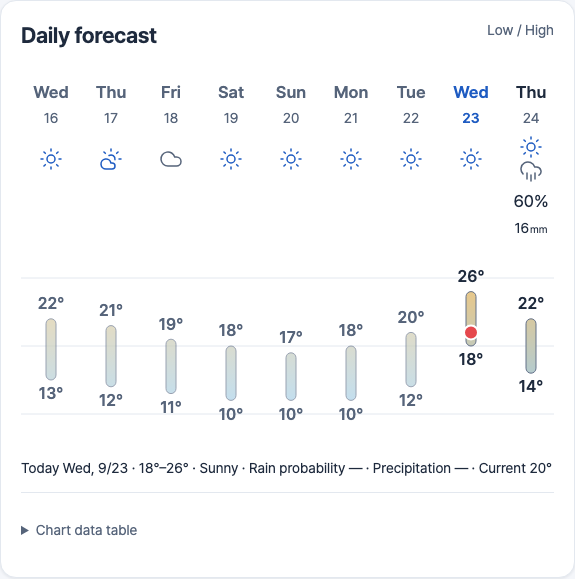
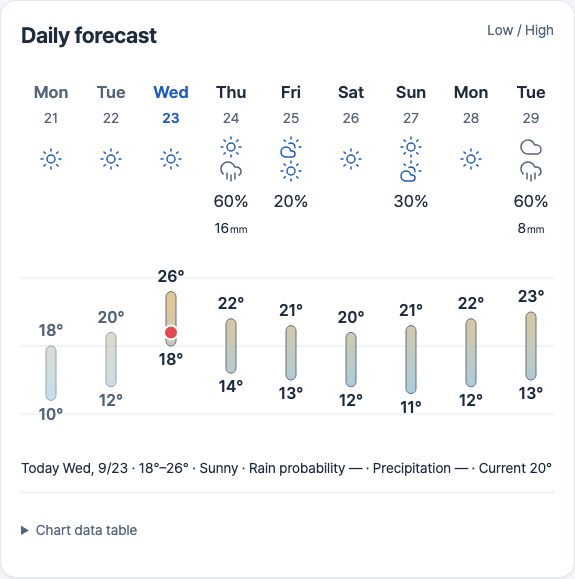
fix(web): open the daily chart with today third whenever the days do not fit
The native tablet rule (first day from a 640 px screen) assumes a
full-width chart. In the web card beside the sidebar it left today at
the right edge with the forecast off screen (768 px: 8 of 18 columns).
Today now opens third unless every day fits.

diff --git a/web/e2e/pwa-design.spec.ts b/web/e2e/pwa-design.spec.ts
@@ -207,18 +207,21 @@ test("daily chart keeps the native cells: empty probability, two-digit day, a 10
     page.locator(".daily-chart-panel tbody tr").first(),
   ).toContainText("—");
 });
-test("daily chart opens with today third below a 640 px screen and at the first day from 640 px (native)", async ({
+test("daily chart opens with today third whenever the days do not all fit, and at the first day when they do", async ({
   page,
 }) => {
   const raw = dailyFixture();
+  // Today (09-23) is the sixth of 16 days.
   raw.midData.dailyData = Array.from({ length: 16 }, (_, i) => ({
     ...raw.midData.dailyData[0],
     date: `2026${i < 13 ? "09" : "10"}${String(i < 13 ? 18 + i : i - 12).padStart(2, "0")}`,
   }));
   await page.route(API + "/weather/**", (r) => r.fulfill({ json: raw }));
-  for (const [width, today3rd] of [
-    [639, true],
-    [640, false],
+  for (const [width, fits] of [
+    [402, false],
+    [768, false],
+    [1024, false],
+    [1440, true],
   ] as const) {
     await page.setViewportSize({ width, height: 900 });
     await page.goto("/weather/seoul/daily");
@@ -226,19 +229,22 @@ test("daily chart opens with today third below a 640 px screen and at the first 
     await expect(daily.locator(".today-column")).toHaveCount(1);
     await page.evaluate(() => document.fonts.ready);
     const pos = await daily.evaluate((el) => {
+      const box = el.getBoundingClientRect();
       const cols = [...el.querySelectorAll(".chart-column")];
+      const today = cols.findIndex((c) => c.classList.contains("today-column"));
       return {
         scrollLeft: el.scrollLeft,
         overflow: el.scrollWidth > el.clientWidth + 1,
-        cell: cols[0].getBoundingClientRect().width,
-        today: cols.findIndex((c) => c.classList.contains("today-column")),
-        max: el.scrollWidth - el.clientWidth,
+        // 1-based position of today among the columns from the left edge.
+        todayPosition:
+          today -
+          cols.findIndex((c) => c.getBoundingClientRect().right > box.left + 1) +
+          1,
       };
     });
-    expect(pos.overflow).toBe(true);
-    const expected = today3rd ? Math.min(pos.max, (pos.today - 2) * pos.cell) : 0;
-    expect(today3rd ? expected : 1).toBeGreaterThan(0);
-    expect(Math.abs(pos.scrollLeft - expected)).toBeLessThan(2);
+    expect(pos.overflow).toBe(!fits);
+    if (fits) expect(pos.scrollLeft).toBe(0);
+    else expect(pos.todayPosition).toBe(3);
   }
 });
 test("chart route navigation scrolls and focuses on click, direct load and history", async ({

diff --git a/web/src/Charts.tsx b/web/src/Charts.tsx
@@ -31,8 +31,6 @@ import { dateText, hourText } from "./locale";
 import { t, useLanguage } from "./i18n";
 import { useApp } from "./context";
 
-const TABLET_WIDTH = 640;
-
 let measureCtx: CanvasRenderingContext2D | null | undefined;
 function maxTextWidth(labels: string[], font: string): number {
   if (measureCtx === undefined)
@@ -673,11 +671,11 @@ export function DailyChart({ weather: w }: { weather: Weather }) {
       el.scrollLeft = 0;
       anchorDate.current = { at: model.rows[0].point.at, offset: 0 };
     } else if (!userScrolled.current || anchorDate.current === null) {
-      // Native: today opens in the third column; screens 640 px and wider open at the start.
-      const target =
-        document.documentElement.clientWidth >= TABLET_WIDTH
-          ? 0
-          : model.startIndex * cell;
+      // The days do not all fit: today opens in the third column (the
+      // native phone rule), as far as the chart can scroll. The native
+      // tablet rule (first day from 640 px) assumes a full-width chart and
+      // would leave the forecast off screen in this narrower card.
+      const target = Math.min(width - viewport, model.startIndex * cell);
       el.scrollLeft = target;
       const firstIdx = Math.max(
         0,

diff --git a/specs/design-system.md b/specs/design-system.md
@@ -373,8 +373,9 @@ Both charts keep the Cordova information model and reading order. The design sys
 **Geometry.**
 - Column width is the same as the hourly chart, and every supplied day is a column (the native count). The chart fills the card width when the days fit.
 - Initial scroll:
-  - On screens narrower than 640 px, today is the third column (native rule, screen width as the native `bodyWidth`).
-  - On screens 640 px and wider, the chart starts at the first day (native rule).
+  - When the days do not all fit, today is the third column (the native phone rule), as far as the chart can scroll.
+  - When they all fit, there is no scroll and the chart starts at the first day.
+  - The native tablet rule (first day from a 640 px screen) is not used: it assumes a full-width chart, and in the web card it left today at the right edge with the forecast off screen.
 
 **Interaction, accessibility and states.** Same as the hourly chart. The announcement is "Sat 26: AM cloudy, PM sunny, 30%, low 18°, high 27°".
 
